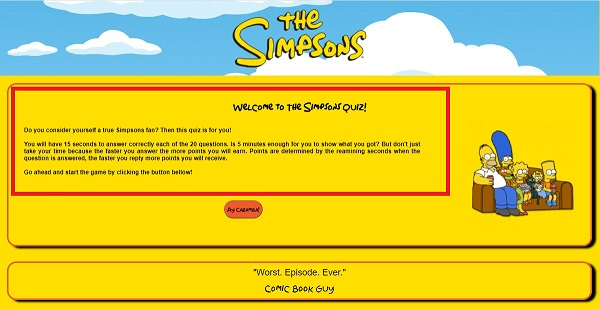
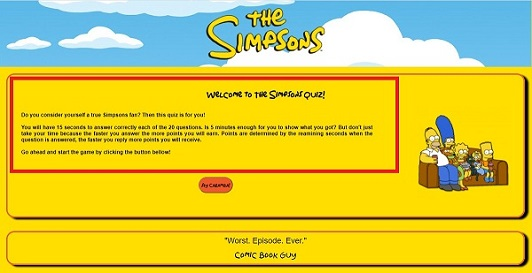
<fix>resized images so all have the same size

diff --git a/README.md b/README.md
@@ -43,7 +43,7 @@ to not only test general facts about the show but also specific facts of some ch
 The navigation is very simple since, once the aplication runs, the only interaction available is the "Ay Caramba! button which starts the game. When in the actual quiz,
 the user can only select one answer from the ones available, sometimes there are four option but in the "Yes/No" kind of questions there, obviously, only two options.
 
-<img src="assets/screenshots/index_screenshot.jpg" alt="Index Screenshot">
+<img src="assets/screenshots/start.jpg" alt="Index Screenshot">
 
 ### User Stories
 
@@ -116,31 +116,31 @@ seconds when each level's question is answered correctly.
 <ins>Feature 3</ins><br>
 * A new player can learn the rules on the index page.<br>
 
-<img src="assets/screenshots/feature3.jpg" alt="Feature 2 Example">
+<img src="assets/screenshots/feature3.jpg" alt="Feature 3 Example">
 
 <ins>Feature 4</ins><br>
 * The player will know if the answer selected is correct because the div will turn green if correct and red if incorrect.<br>
 
-<img src="assets/screenshots/feature4.jpg" alt="Feature 2 Example">
+<img src="assets/screenshots/feature4.jpg" alt="Feature 4 Correct Answer Example">
 <br>
-<img src="assets/screenshots/feature4red.jpg" alt="Feature 2 Example">
+<img src="assets/screenshots/feature4red.jpg" alt="Feature 4 Incorrect Answer Example">
 
 <ins>Feature 5</ins><br>
 * A timer is displayed on the right side of the screen to allow the player to manage his time left.<br>
 
-<img src="assets/screenshots/feature5.jpg" alt="Feature 2 Example">
+<img src="assets/screenshots/feature5.jpg" alt="Feature 5 Example">
 
-<ins>Feature 7</ins><br>
+<ins>Feature 6</ins><br>
 * On the right side of the screen, below the timer, the current score is displayed for the player to keep track.<br>
 
-<img src="assets/screenshots/feature7.jpg" alt="Feature 2 Example">
+<img src="assets/screenshots/feature7.jpg" alt="Feature 6 Example">
 
-<ins>Feature 8</ins><br>
+<ins>Feature 7</ins><br>
 * On the left side of the screen, an image is displayed which shows the current level on its top right corner.<br>
 
 <img src="assets/screenshots/feature8.jpg" alt="Feature 2 Example">
 
-<ins>Feature 9</ins><br>
+<ins>Feature 8</ins><br>
 * When a question is answered incorrectly the game ends and the final score along with the level reached are displayed for the player's knowledge.<br>
 
 <img src="assets/screenshots/game-over.jpg" alt="Feature 2 Example">
